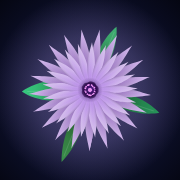
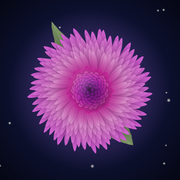
파비콘·홈 화면 아이콘 새로: 퐁퐁 꽃심 보랏빛 꽃, 마스커블 아이콘 추가
Claude-Session: https://claude.ai/code/session_011uarRdNqR6YjqzYxG4Jp2E

diff --git a/index.html b/index.html
@@ -36,11 +36,11 @@
 </script>
 <meta name="viewport" content="width=device-width,initial-scale=1,viewport-fit=cover">
 <title>서천꽃밭</title>
-<link rel="manifest" href="manifest.webmanifest">
-<link rel="apple-touch-icon" href="apple-touch-icon.png">
-<link rel="icon" href="favicon.ico" sizes="any">
-<link rel="icon" type="image/png" sizes="32x32" href="favicon-32.png">
-<link rel="icon" type="image/png" sizes="192x192" href="icon-192.png">
+<link rel="manifest" href="manifest.webmanifest?v=2">
+<link rel="apple-touch-icon" href="apple-touch-icon.png?v=2">
+<link rel="icon" href="favicon.ico?v=2" sizes="any">
+<link rel="icon" type="image/png" sizes="32x32" href="favicon-32.png?v=2">
+<link rel="icon" type="image/png" sizes="192x192" href="icon-192.png?v=2">
 <meta name="theme-color" content="#04050f">
 <meta name="mobile-web-app-capable" content="yes">
 <meta name="apple-mobile-web-app-capable" content="yes">
